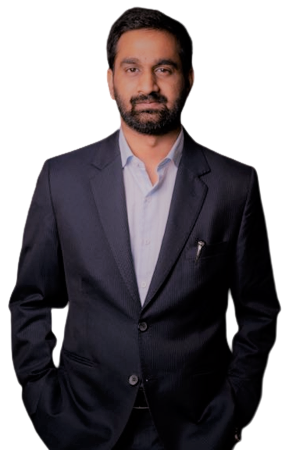
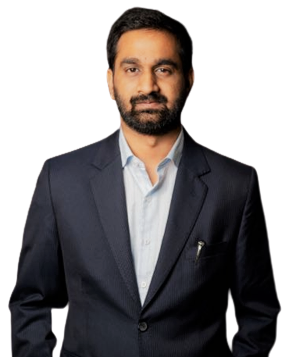
second

diff --git a/d.html b/d.html
@@ -37,7 +37,12 @@
           >
             <ul class="navbar-nav">
               <li class="nav-item">
-                <a class="nav-link fw-semibold active" aria-current="page" href="#l0">Profile</a>
+                <a
+                  class="nav-link fw-semibold active"
+                  aria-current="page"
+                  href="#l0"
+                  >Profile</a
+                >
               </li>
               <li class="nav-item">
                 <a class="nav-link fw-semibold" href="#l1">Work</a>
@@ -53,12 +58,29 @@
 
     <div class="container pt-5" id="l0">
       <div class="row pt-5 d-flex align-items-center text-center">
-        <div class="col-sm-12 col-lg-6">
-          <p class="display-3">Dhanush Bollineni</p>
-          <p class="fs-3">Chairman - India Africa Trade Council</p>
-          <p class="fs-3">Chairman of Trade - Ethiopia</p>
+        <div class="col-sm-12 col-lg-8">
+          <div class="card border-light">
+            <div class="card-body">
+              <h5 class="card-title display-3">Dhanush Bollineni</h5>
+              <h6 class="card-subtitle fs-5 mb-2 fw-semibold">
+                Chairman - India Africa Trade Council
+              </h6>
+              <h6 class="card-subtitle fs-5 mb-2 fw-semibold">
+                Chairman of Trade - Ethiopia
+              </h6>
+              <p class="card-text fs-5">
+                Lorem ipsum dolor sit amet, consectetur adipiscing elit, sed do
+                eiusmod tempor incididunt ut labore et dolore magna aliqua. Ut
+                enim ad minim veniam, quis nostrud exercitation ullamco laboris
+                nisi ut aliquip ex ea commodo consequat. Duis aute irure dolor
+                in reprehenderit in voluptate velit esse cillum dolore eu fugiat
+                nulla pariatur. Excepteur sint occaecat cupidatat non proident,
+                sunt in culpa qui officia deserunt mollit anim id est laborum.
+              </p>
+            </div>
+          </div>
         </div>
-        <div class="col-sm-12 col-lg-6">
+        <div class="col-sm-12 col-lg-4">
           <img src="d.png" class="img-fluid" alt="..." />
         </div>
       </div>
